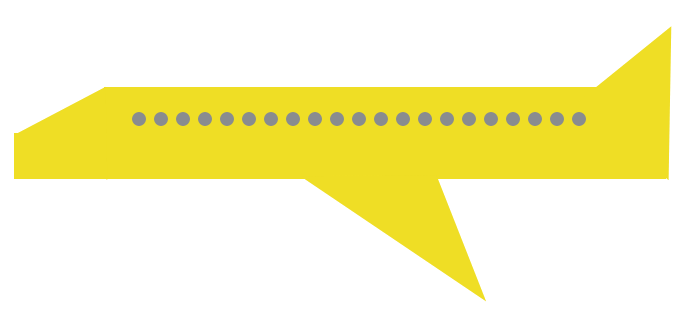
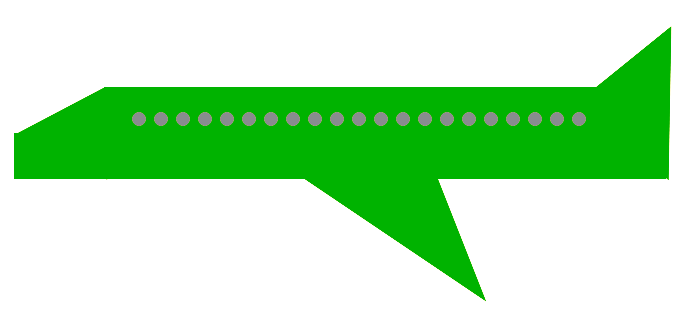
green color

diff --git a/frontend/resources/src/style/colors.js b/frontend/resources/src/style/colors.js
@@ -1,4 +1,5 @@
-export const primaryColor = '#efde25';
+//export const primaryColor = '#efde25';
+export const primaryColor = '#00b300';
 export const primaryColorDark = '#b3a729';
 export const secondaryColor = '#898C8F';
 export const secondaryColorDark = '#374955';
